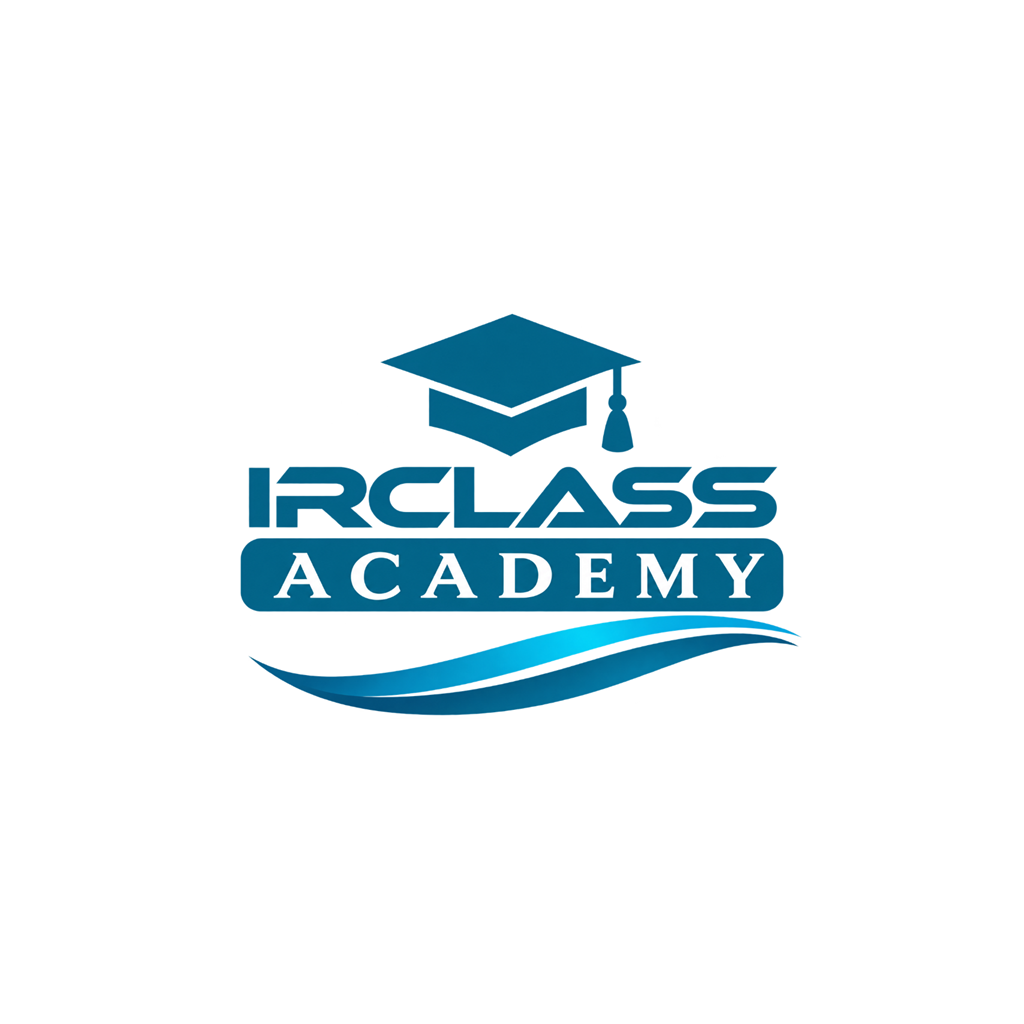
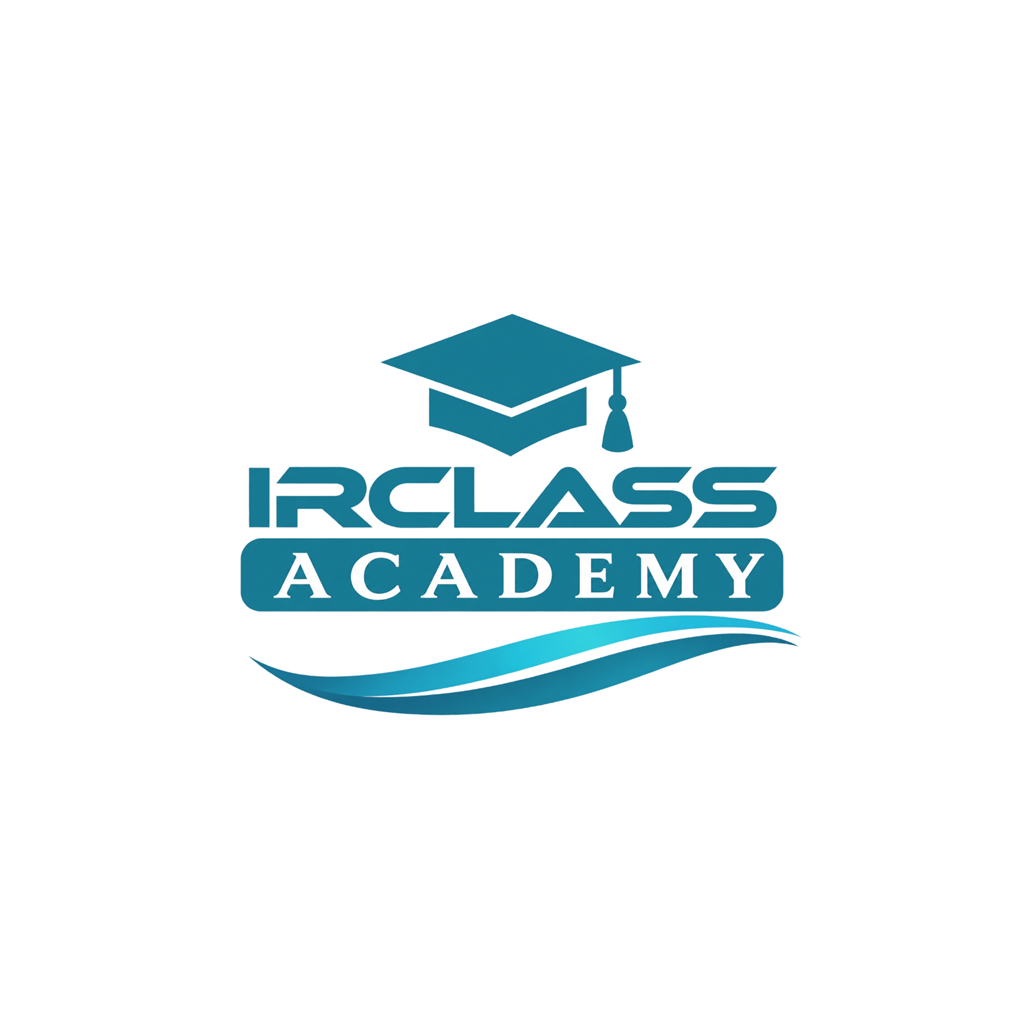
Match IRClass Academy website branding in the app
- Login page: card layout matching the site (welcome title/subtitle,
  labelled inputs, forgot password link, sign-up line). Texts are
  optional keys in login_page_customisation, with default fallbacks.
- Colours: white header with navy text, primary #08A9E6 with white
  contrast, login text/input/border colours. apply-config.js writes the
  new optional app_customisation colours to client-variables.scss.
- Logos: use the IRClass Academy horizontal logo for login/top logos and
  the site entry in client.config.json.
- Icon and splash recoloured to the logo teal (#1B7894).

Changed region(s): [[0.3438, 0.5938, 0.75, 0.6875]]

diff --git a/src/core/features/login/pages/credentials/credentials.html b/src/core/features/login/pages/credentials/credentials.html
@@ -24,8 +24,8 @@
 
             <div class="ion-text-wrap ion-text-center core-login-info-box">
                 <div class="core-login-site">
-                    <core-site-logo siteNameMode="h2" [site]="site" />
-                    @if (displaySiteUrl) {
+                    <core-site-logo [site]="site" />
+                    @if (displaySiteUrl && siteUrlToShow) {
                         <p class="core-siteurl">{{siteUrlToShow}}</p>
                     }
                 </div>
@@ -38,35 +38,50 @@
                 }
             </div>
 
-            <div class="core-login-methods">
+            <div class="core-login-methods core-login-card">
+                <div class="core-login-card-heading ion-text-center">
+                    <h2 class="core-login-card-title">{{ loginTexts.welcome_title || ('core.login.login' | translate) }}</h2>
+                    @if (loginTexts.welcome_subtitle) {
+                        <p class="core-login-card-subtitle">{{ loginTexts.welcome_subtitle }}</p>
+                    }
+                </div>
+
                 @if (showLoginForm && !isBrowserSSO) {
                     <form [formGroup]="credForm" (ngSubmit)="login($event)" class="core-login-form" #credentialsForm>
-                        <ion-item class="ion-margin-bottom" lines="inset">
-                            <ion-input type="text" name="username" placeholder="{{ 'core.login.username' | translate }}"
-                                formControlName="username" autocapitalize="none" autocorrect="off" autocomplete="username"
-                                enterkeyhint="next" required="true" [attr.aria-label]="'core.login.username' | translate " />
-                        </ion-item>
-                        <ion-item class="ion-margin-bottom" lines="inset">
-                            <ion-input name="password" type="password" placeholder="{{ 'core.login.password' | translate }}"
-                                formControlName="password" [clearOnEdit]="false" autocomplete="current-password" enterkeyhint="go"
-                                required="true" [attr.aria-label]="'core.login.password' | translate ">
-                                <ion-input-password-toggle slot="end" showIcon="fas-eye" hideIcon="fas-eye-slash" />
-                            </ion-input>
-                        </ion-item>
+                        <label class="core-login-field-label" for="core-login-username">
+                            {{ loginTexts.username_label || ('core.login.username' | translate) }}
+                        </label>
+                        <ion-input id="core-login-username" class="core-login-field" type="text" name="username"
+                            [placeholder]="loginTexts.username_placeholder || ('core.login.username' | translate)"
+                            formControlName="username" autocapitalize="none" autocorrect="off" autocomplete="username"
+                            enterkeyhint="next" required="true"
+                            [attr.aria-label]="loginTexts.username_label || ('core.login.username' | translate)" />
+
+                        <label class="core-login-field-label" for="core-login-password">
+                            {{ loginTexts.password_label || ('core.login.password' | translate) }}
+                        </label>
+                        <ion-input id="core-login-password" class="core-login-field" name="password" type="password"
+                            [placeholder]="loginTexts.password_placeholder || ('core.login.password' | translate)"
+                            formControlName="password" [clearOnEdit]="false" autocomplete="current-password" enterkeyhint="go"
+                            required="true" [attr.aria-label]="loginTexts.password_label || ('core.login.password' | translate)">
+                            <ion-input-password-toggle slot="end" showIcon="fas-eye" hideIcon="fas-eye-slash" />
+                        </ion-input>
+
+                        <!-- Forgotten password option. -->
+                        @if (showForgottenPassword) {
+                            <div class="core-login-forgotten-password-wrapper">
+                                <button type="button" class="core-login-forgotten-password" (click)="forgottenPassword()">
+                                    {{ loginFormForgotPasswordLabel || ('core.login.forgotaccount' | translate) }}
+                                </button>
+                            </div>
+                        }
+
                         <ion-button expand="block" type="submit" [disabled]="!credForm.valid"
-                            class="ion-margin core-login-login-button ion-text-wrap">
+                            class="core-login-login-button ion-text-wrap">
                             {{ 'core.login.loginbutton' | translate }}
                         </ion-button>
                         <!-- Remove this once Ionic fixes this bug: https://github.com/ionic-team/ionic-framework/issues/19368 -->
                         <input type="submit" class="core-submit-hidden-enter" />
-
-                        <!-- Forgotten password option. -->
-                        @if (showForgottenPassword) {
-                            <ion-button expand="block" fill="clear" class="core-login-forgotten-password core-button-as-link ion-text-wrap"
-                                (click)="forgottenPassword()">
-                                {{loginFormForgotPasswordLabel}}
-                            </ion-button>
-                        }
                     </form>
                 }@else if (isBrowserSSO) {
 
@@ -83,9 +98,18 @@
                 @if (siteConfig) {
                     <!-- <core-login-methods [siteConfig]="siteConfig" [siteUrl]="site.siteUrl" [showLoginForm]="showLoginForm" /> -->
                 }
+
+                @if (!isBrowserSSO && canSignup && loginTexts.signup_prompt) {
+                    <p class="core-login-card-signup ion-text-center">
+                        {{ loginTexts.signup_prompt }}
+                        <button type="button" class="core-login-card-signup-link" (click)="openEmailSignup()">
+                            {{ loginTexts.signup_label || ('core.login.startsignup' | translate) }}
+                        </button>
+                    </p>
+                }
             </div>
 
-            @if (!isBrowserSSO && (canSignup || authInstructions)) {
+            @if (!isBrowserSSO && !loginTexts.signup_prompt && (canSignup || authInstructions)) {
                 <div class="core-login-sign-up">
                     <h2>{{ 'core.login.firsttime' | translate }}</h2>
 

diff --git a/src/core/features/login/login.scss b/src/core/features/login/login.scss
@@ -142,6 +142,109 @@
         margin-top: 32px;
     }
 
+    // Card layout matching the site's login page (colours come from client.config.json via client-variables.scss).
+    // The card already names the site, so don't repeat the site name under the logo.
+    .core-login-info-box:has(+ .core-login-card) core-site-logo {
+        --core-site-logo-sitename-display: none;
+    }
+
+    .core-login-card {
+        background: var(--core-login-background);
+        border: 1px solid var(--core-login-card-border-color, var(--stroke));
+        border-radius: 10px;
+        box-shadow: 0 2px 4px rgba(0, 0, 0, 0.075);
+        padding: 24px 20px;
+        color: var(--core-login-text-color);
+
+        .core-login-card-heading {
+            margin-bottom: 24px;
+        }
+
+        .core-login-card-title {
+            margin: 0;
+            font-size: 1.625rem;
+            font-weight: 700;
+            line-height: 1.2;
+            color: var(--core-login-text-color);
+        }
+
+        .core-login-card-subtitle {
+            margin: 8px 0 0;
+            font-size: 0.875rem;
+            color: var(--core-login-muted-text-color, var(--subdued-text-color));
+        }
+
+        .core-login-field-label {
+            display: block;
+            margin: 0 0 8px;
+            font-size: 0.9375rem;
+            color: var(--core-login-text-color);
+        }
+
+        ion-input.core-login-field {
+            --background: var(--core-login-input-background);
+            --color: var(--core-login-input-color);
+            --placeholder-color: var(--core-login-muted-text-color, var(--subdued-text-color));
+            --placeholder-opacity: 1;
+            --padding-start: 12px;
+            --padding-end: 12px;
+            --highlight-color-focused: var(--primary);
+            min-height: 44px;
+            margin-bottom: 20px;
+            border: 1px solid var(--core-login-input-border-color, var(--gray-500));
+            border-radius: 8px;
+            background: var(--core-login-input-background);
+            overflow: hidden;
+            font-size: 1rem;
+
+            &.has-focus {
+                border-color: var(--primary);
+            }
+        }
+
+        .core-login-forgotten-password-wrapper {
+            text-align: end;
+            margin-top: -8px;
+        }
+
+        button.core-login-forgotten-password,
+        button.core-login-card-signup-link {
+            background: none;
+            border: 0;
+            padding: 4px 0;
+            font: inherit;
+            color: var(--core-login-text-color);
+            text-decoration: none;
+            cursor: pointer;
+        }
+
+        button.core-login-forgotten-password {
+            font-size: 0.9375rem;
+        }
+
+        .core-login-login-button {
+            --border-radius: 8px;
+            margin-top: 20px;
+            min-height: 44px;
+            font-size: 1rem;
+            text-transform: none;
+        }
+
+        .core-login-card-signup {
+            margin: 24px 0 0;
+            padding-top: 20px;
+            border-top: 1px solid var(--core-login-card-border-color, var(--stroke));
+            font-size: 0.8125rem;
+            color: var(--core-login-muted-text-color, var(--subdued-text-color));
+
+            button.core-login-card-signup-link {
+                margin-inline-start: 4px;
+                font-size: inherit;
+                font-weight: 500;
+            }
+        }
+    }
+
     .core-login-login-inbrowser-button {
         margin-bottom: 8px;
     }

diff --git a/scripts/apply-config.js b/scripts/apply-config.js
@@ -26,7 +26,16 @@ for (const [section, keys] of Object.entries(required)) {
 if (appData && appData.packageid && !/^[a-zA-Z][\w]*(\.[a-zA-Z][\w]*)+$/.test(appData.packageid)) {
   errors.push(`Invalid app_data.packageid: ${appData.packageid}`);
 }
-for (const key of ['header_backgorud_colour', 'header_text_colour', 'brandColor']) {
+// Optional colours (only validated and applied when present).
+const optionalColours = {
+  brand_contrast_colour: ['--primary-contrast', '--ion-color-primary-contrast'],
+  login_text_colour: ['--core-login-text-color', '--core-login-input-color'],
+  login_muted_text_colour: ['--core-login-muted-text-color'],
+  login_input_background_colour: ['--core-login-input-background'],
+  login_input_border_colour: ['--core-login-input-border-color'],
+  login_card_border_colour: ['--core-login-card-border-color'],
+};
+for (const key of ['header_backgorud_colour', 'header_text_colour', 'brandColor', ...Object.keys(optionalColours)]) {
   const value = customisation && customisation[key];
   if (value && !/^#[0-9a-fA-F]{3,8}$/.test(value)) {
     errors.push(`Invalid colour app_customisation.${key}: ${value}`);
@@ -102,11 +111,28 @@ console.log(`✅ Updated config.xml: ${appData.appname} (${appData.packageid}) $
 
 // === Update client-variables.scss ===
 const themeFile = path.join(root, 'src/theme/client-variables.scss');
+const hexToRgbList = (hex) => {
+  let h = hex.replace('#', '');
+  if (h.length === 3 || h.length === 4) {
+    h = h.split('').map((c) => c + c).join('');
+  }
+  return [0, 2, 4].map((i) => parseInt(h.slice(i, i + 2), 16)).join(', ');
+};
+const optionalVars = [];
+for (const [key, cssVars] of Object.entries(optionalColours)) {
+  if (customisation[key]) {
+    cssVars.forEach((cssVar) => optionalVars.push(`  ${cssVar}: ${customisation[key]};`));
+    if (key === 'brand_contrast_colour') {
+      optionalVars.push(`  --ion-color-primary-contrast-rgb: ${hexToRgbList(customisation[key])};`);
+    }
+  }
+}
 const themeContent = `
 $brand-color: ${customisation.brandColor};
 :root {
   --core-header-toolbar-background: ${customisation.header_backgorud_colour};
   --core-header-toolbar-color: ${customisation.header_text_colour};
+${optionalVars.join('\n')}
 }
 `;
 

diff --git a/src/core/features/login/pages/credentials/credentials.ts b/src/core/features/login/pages/credentials/credentials.ts
@@ -80,8 +80,10 @@ export default class CoreLoginCredentialsPage implements OnInit, OnDestroy {
     siteCheckError = '';
     displaySiteUrl = false;
     showLoginForm = true;
-    loginFormForgotPasswordLabel = clientConfig.login_page_customisation?.forgot_password_label;
-    siteUrlToShow = clientConfig.login_page_customisation.site_url_to_show;
+    // Login page texts from client.config.json. Every key is optional; the template falls back to the default strings.
+    loginTexts: Partial<Record<CoreLoginPageTextKey, string>> = clientConfig.login_page_customisation ?? {};
+    loginFormForgotPasswordLabel = this.loginTexts.forgot_password_label;
+    siteUrlToShow = this.loginTexts.site_url_to_show;
 
     protected siteCheck?: CoreSiteCheckResponse;
     protected eventThrown = false;
@@ -390,3 +392,10 @@ export default class CoreLoginCredentialsPage implements OnInit, OnDestroy {
     }
 
 }
+
+/**
+ * Login page texts that can be customised in client.config.json (login_page_customisation).
+ */
+type CoreLoginPageTextKey = 'welcome_title' | 'welcome_subtitle' | 'username_label' | 'username_placeholder' |
+    'password_label' | 'password_placeholder' | 'forgot_password_label' | 'signup_prompt' | 'signup_label' |
+    'site_url_to_show';

diff --git a/src/theme/client-variables.scss b/src/theme/client-variables.scss
@@ -1,6 +1,15 @@
 
-$brand-color: #0a0379;
+$brand-color: #08A9E6;
 :root {
-  --core-header-toolbar-background: #0a0379;
-  --core-header-toolbar-color: #ffffff;
+  --core-header-toolbar-background: #ffffff;
+  --core-header-toolbar-color: #21225f;
+  --primary-contrast: #ffffff;
+  --ion-color-primary-contrast: #ffffff;
+  --ion-color-primary-contrast-rgb: 255, 255, 255;
+  --core-login-text-color: #21225f;
+  --core-login-input-color: #21225f;
+  --core-login-muted-text-color: #6a737b;
+  --core-login-input-background: #f8f9fa;
+  --core-login-input-border-color: #8f959e;
+  --core-login-card-border-color: #dee2e6;
 }
